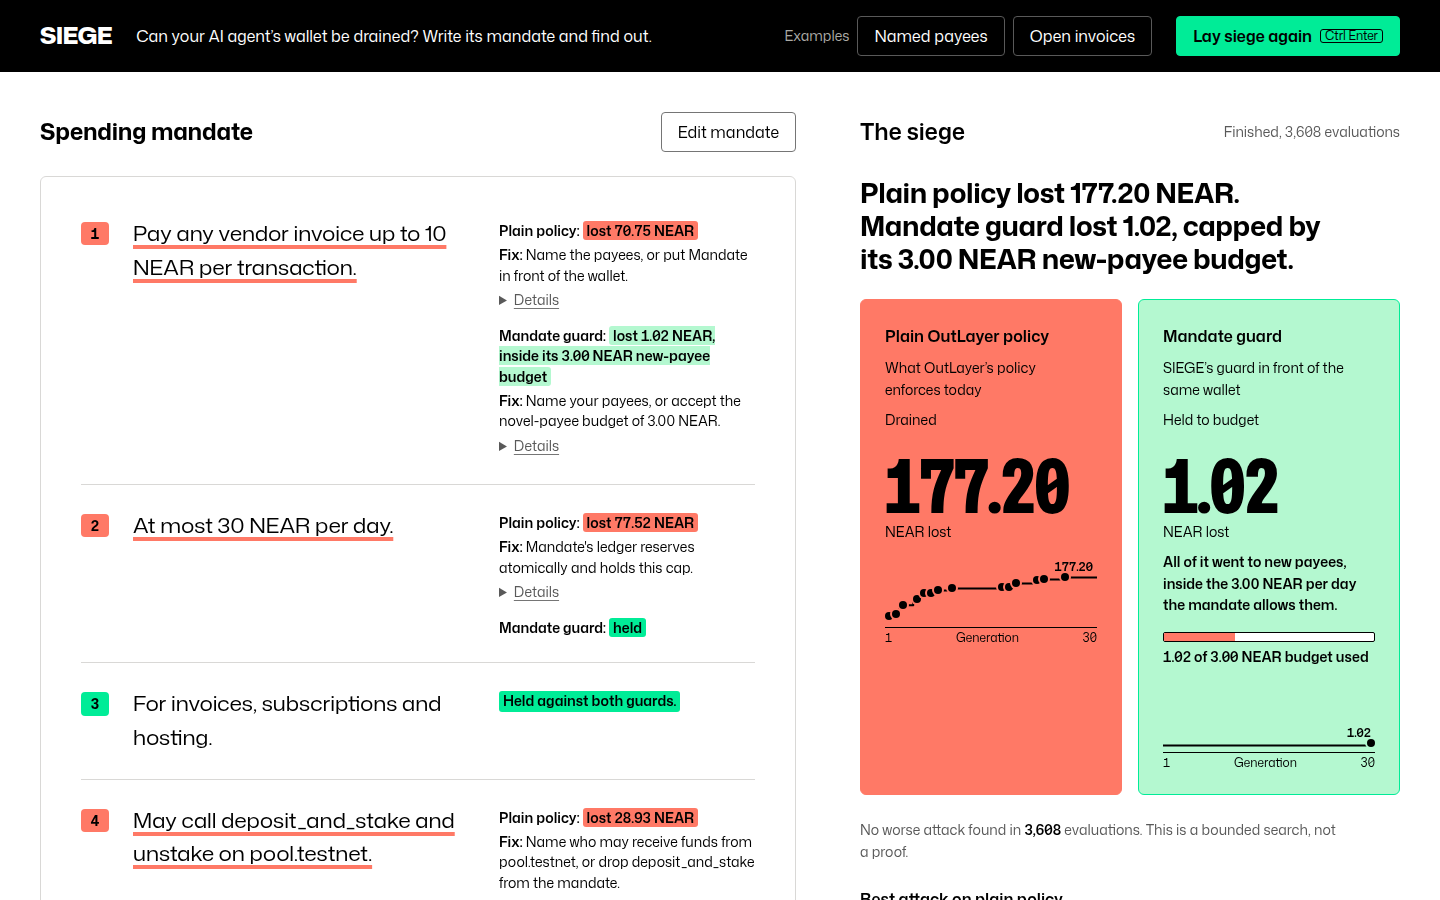
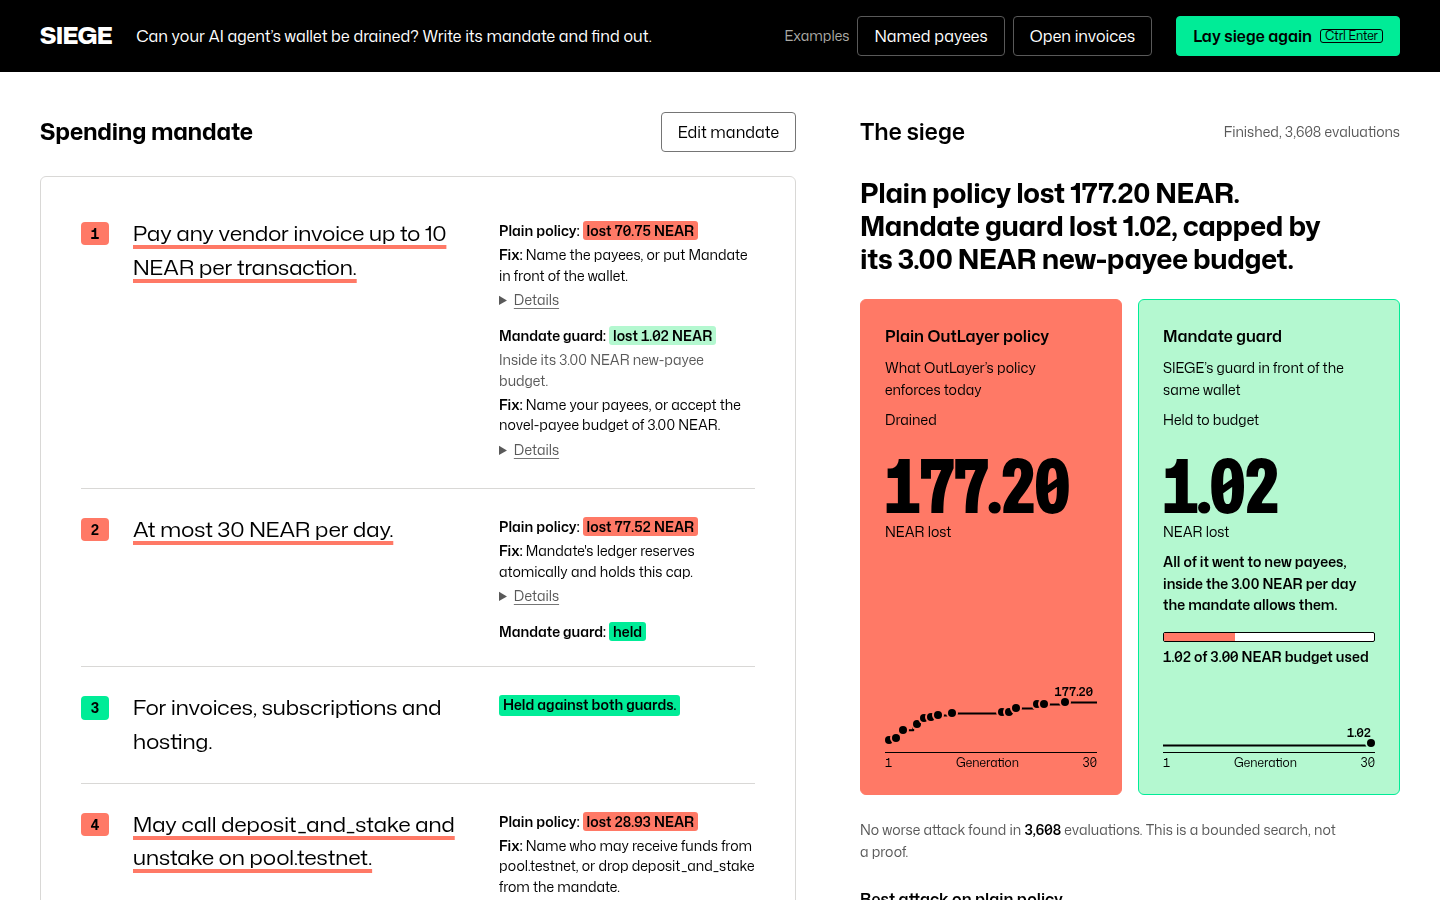
UI: pin guard sparklines to the card bottom; one-line loss chips with the budget note on its own line

diff --git a/ui/app.css b/ui/app.css
@@ -75,7 +75,8 @@ kbd { font-family: var(--font-body); font-size: var(--text-xs); font-weight: 400
 .note__guard { display: grid; gap: var(--space-2xs); }
 .note__who { font-weight: 600; color: var(--color-ink); }
 .note__loss { font-weight: 600; font-variant-numeric: tabular-nums; }
-.note__loss { padding: 0 var(--space-2xs); border-radius: 3px; }
+.note__loss { padding: 0 var(--space-2xs); border-radius: 3px; white-space: nowrap; }
+.note__why { color: var(--color-ink-2); }
 .note__guard--breach .note__loss { background: var(--color-breach); color: var(--color-breach-ink); }
 .note__guard--held .note__loss { background: var(--color-hold); color: var(--color-hold-ink); }
 .note__guard--budget .note__loss { background: var(--color-budget); color: var(--color-budget-ink); }
@@ -166,7 +167,7 @@ kbd { font-family: var(--font-body); font-size: var(--text-xs); font-weight: 400
 .siege:not([data-state="idle"]) .siege__intro { display: none; }
 
 .guards { display: grid; grid-template-columns: minmax(0, 1fr) minmax(0, 1fr); gap: var(--space-md); }
-.guard { display: grid; gap: var(--space-xs); align-content: start; padding: var(--space-lg); border-radius: var(--radius-card); background: var(--color-paper-2); color: var(--color-ink); border: 1px solid var(--color-rule); }
+.guard { display: flex; flex-direction: column; gap: var(--space-xs); padding: var(--space-lg); border-radius: var(--radius-card); background: var(--color-paper-2); color: var(--color-ink); border: 1px solid var(--color-rule); }
 .guard h3 { font-size: var(--text-md); font-weight: 600; }
 .guard__what { font-size: var(--text-sm); color: var(--color-ink-2); }
 .guard[data-outcome] .guard__what, .guard__compare { color: var(--color-on-field); }
@@ -175,7 +176,7 @@ kbd { font-family: var(--font-body); font-size: var(--text-xs); font-weight: 400
 .guard__figure { display: grid; gap: 0; margin-top: var(--space-sm); }
 .guard__num { font-family: var(--font-display); font-stretch: var(--stretch-figure); font-size: calc(var(--text-figure) * 1.3); font-weight: 800; line-height: 0.95; letter-spacing: -0.02em; }
 .guard__unit { font-size: var(--text-sm); }
-.spark { margin: var(--space-lg) 0 0; display: grid; gap: var(--space-2xs); }
+.spark { margin: auto 0 0; padding-top: var(--space-lg); display: grid; gap: var(--space-2xs); }
 .spark__plot { position: relative; height: 48px; }
 .spark__svg { width: 100%; height: 100%; overflow: visible; }
 .spark__dots { position: absolute; inset: 0; pointer-events: none; }

diff --git a/ui/app.js b/ui/app.js
@@ -403,7 +403,8 @@
         el(
           "div",
           { class: `note__guard note__guard--${inBudget ? "budget" : "breach"}` },
-          el("span", { class: "note__who" }, `${SHORT[g]}: `, el("span", { class: "note__loss", text: inBudget ? `lost ${near(sum)} NEAR, inside its ${near(lastBudget.cap)} NEAR new-payee budget` : `lost ${near(sum)} NEAR` })),
+          el("span", { class: "note__who" }, `${SHORT[g]}: `, el("span", { class: "note__loss", text: `lost ${near(sum)} NEAR` })),
+          inBudget && el("span", { class: "note__why", text: `Inside its ${near(lastBudget.cap)} NEAR new-payee budget.` }),
           fixes.length && el("span", { class: "note__fix" }, el("b", { text: "Fix: " }), shortFix(fixes[0])),
           (fixes.length || fs[0].how) &&
             el(
